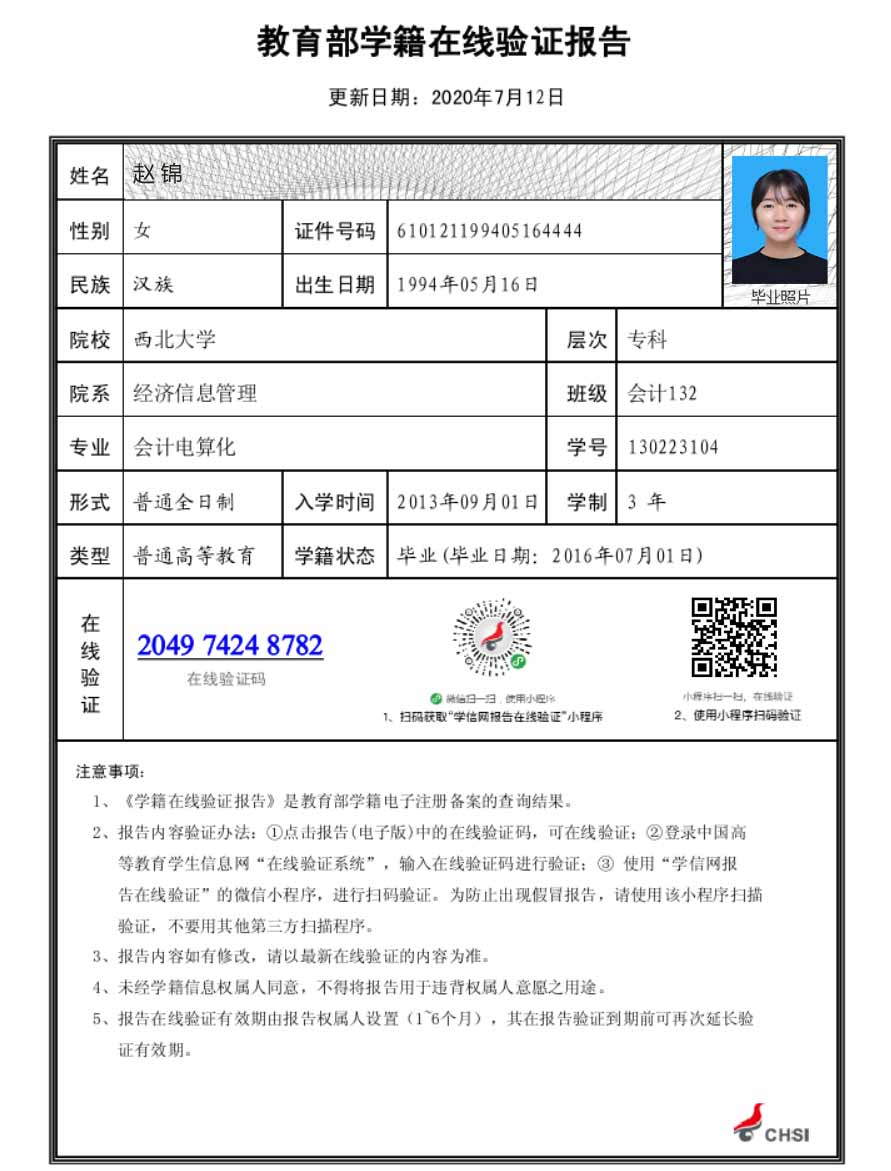
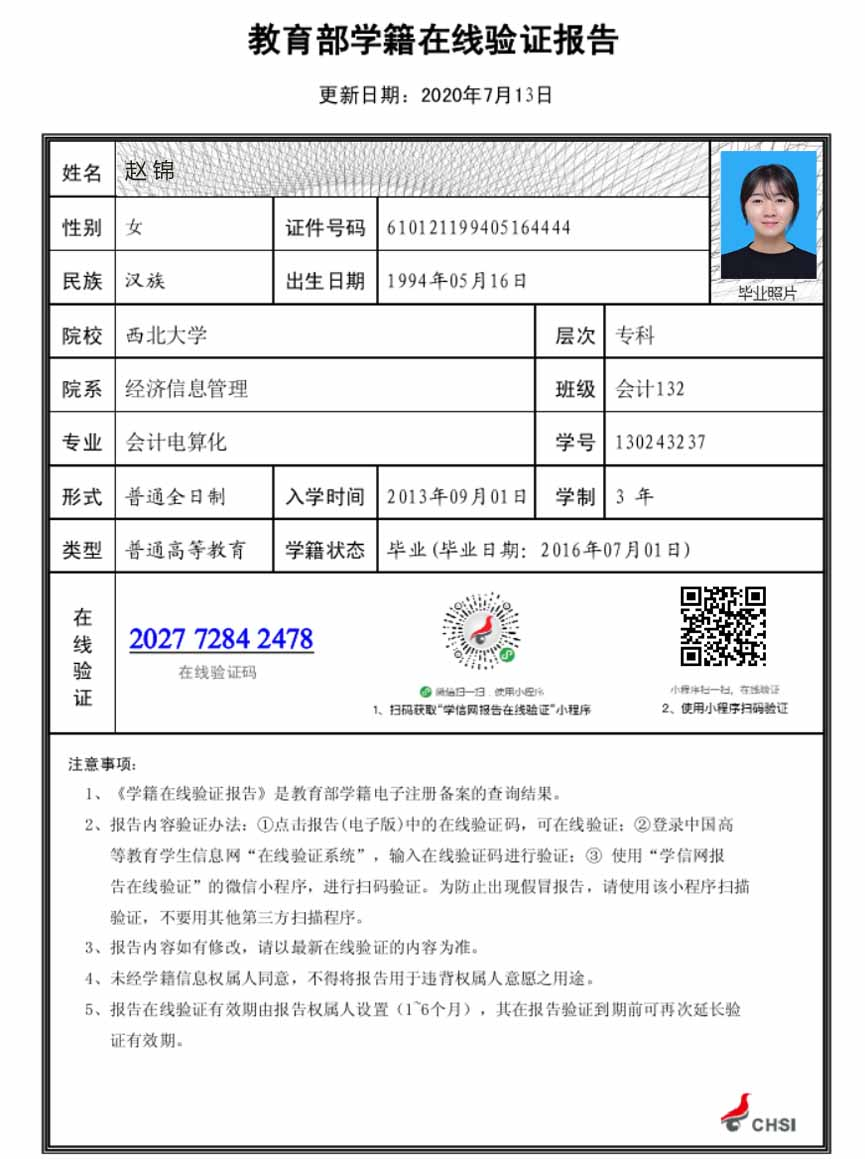
.

Changed region(s): [[0.0312, 0.0, 0.9676, 1.0]]

diff --git a/chsi.html b/chsi.html
@@ -120,11 +120,6 @@
     </style>
   </head>
   <body>
-    <script>
-      // document.body.addEventListener('touchmove', function (e) {
-      //   e.preventDefault(); //阻止默认的处理方式(阻止下拉滑动的效果)
-      // }, {passive: false}); //passive 参数不能省略，用来兼容ios和android
-    </script>
     <div class="warp">
       <div class="top flex">
         <span class="left-bg"></span>
@@ -158,16 +153,16 @@
           <span class="left-span">院系</span><span class="right-span">经济信息管理</span>
         </div>
         <div class="line-item">
-          <span class="left-span">班级</span><span class="right-span">会计13</span>
+          <span class="left-span">班级</span><span class="right-span">会计132</span>
         </div>
         <div class="line-item">
           <span class="left-span">专业</span><span class="right-span">会计电算化</span>
         </div>
         <div class="line-item">
-          <span class="left-span">学号</span><span class="right-span">130223104</span>
+          <span class="left-span">学号</span><span class="right-span">130243237</span>
         </div>
         <div class="line-item">
-          <span class="left-span">形式</span><span class="right-span">通全日制</span>
+          <span class="left-span">形式</span><span class="right-span">普通全日制</span>
         </div>
         <div class="line-item">
           <span class="left-span">入学时间</span><span class="right-span">2013年09月01日</span>
@@ -179,15 +174,15 @@
           <span class="left-span">类型</span><span class="right-span">普通高等教育</span>
         </div>
         <div class="line-item border-none">
-          <span class="left-span">学籍状态</span><span class="right-span">毕业(毕业日期：2016年07月01日)</span>
+          <span class="left-span">学籍状态</span><span class="right-span">毕业(毕业日期2016年07月01日)</span>
         </div>
       </div>
       <div class="info margin-t-10">
         <div class="line-item">
-          <span class="left-span">在线验证码</span><span class="right-span bold">2049 7424 8782</span>
+          <span class="left-span">在线验证码</span><span class="right-span bold">2027 7284 2478</span>
         </div>
         <div class="line-item border-none">
-          <span class="left-span">更新日期</span><span class="right-span">2020年7月12日</span>
+          <span class="left-span">更新日期</span><span class="right-span">2020年7月13日</span>
         </div>
       </div>
     </div>
